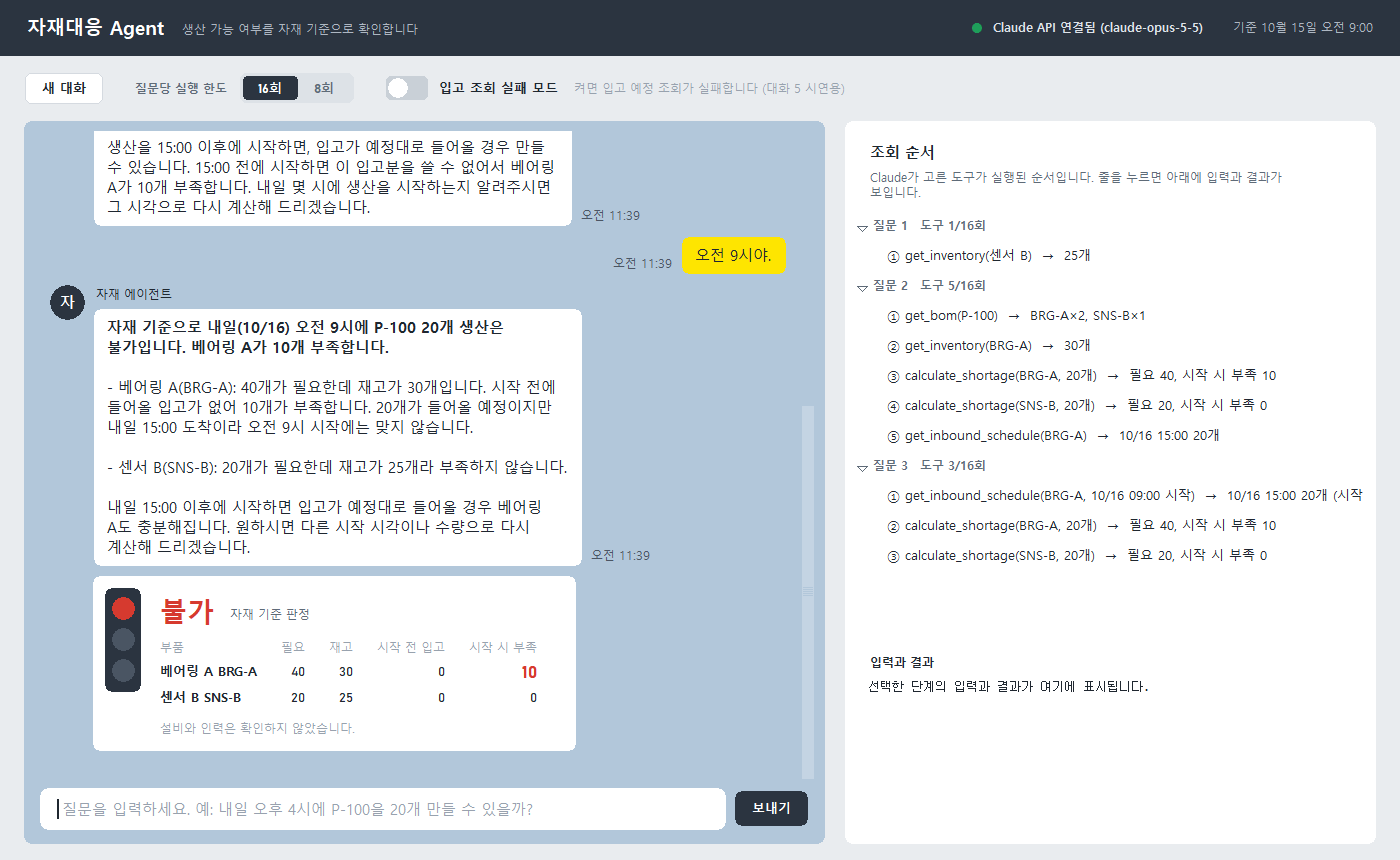
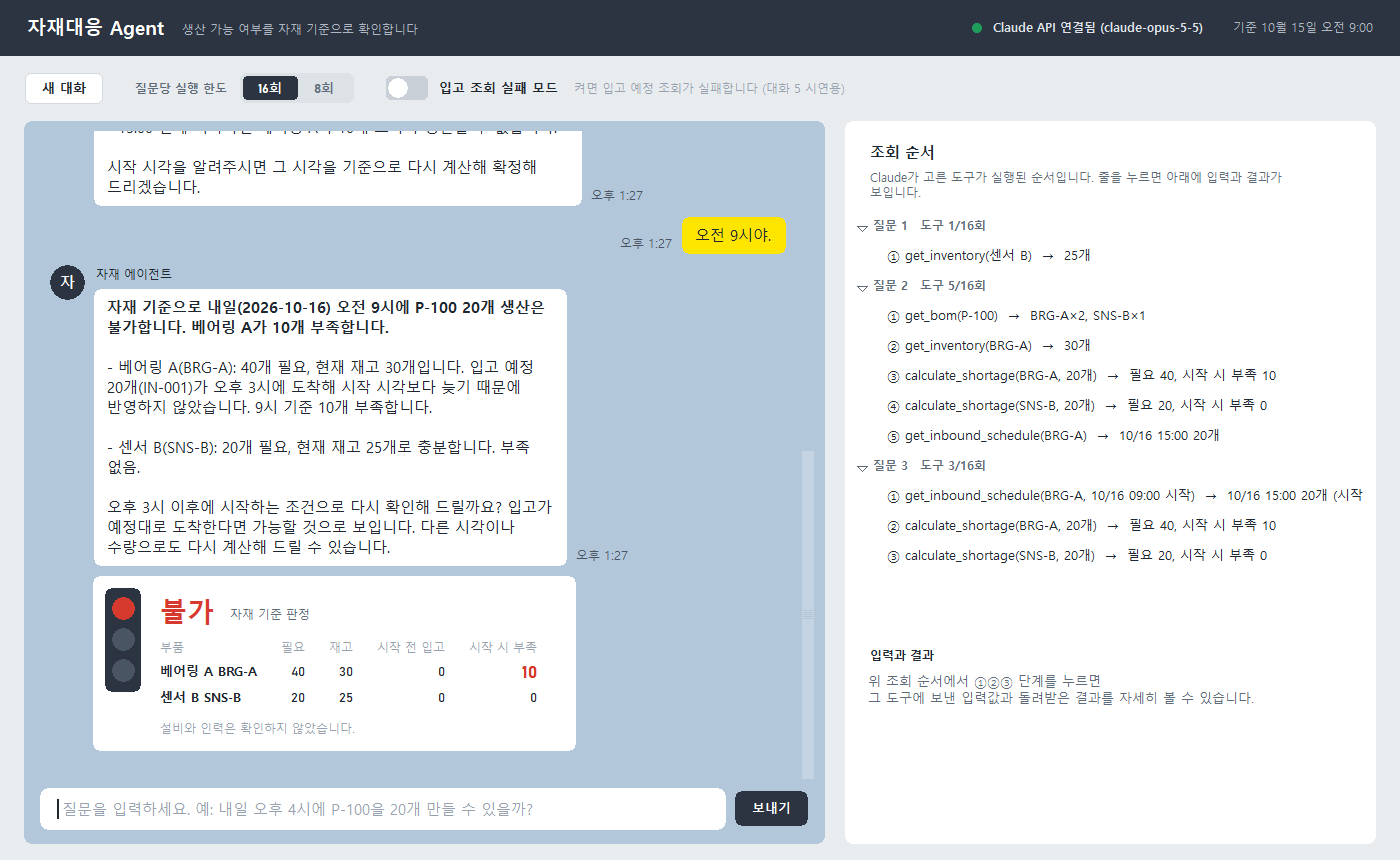
feat: clearer detail hint text

Changed region(s): [[0.0307, 0.3023, 0.4607, 0.6651], [0.0614, 0.1512, 0.5836, 0.3326], [0.6143, 0.7558, 0.8907, 0.8163]]

diff --git a/app.py b/app.py
@@ -43,6 +43,8 @@ CHAT_MUTED = "#4B5563"
 BUBBLE_WRAP = 460
 LIMIT_CHOICES = ("16", "8")
 CIRCLED = "①②③④⑤⑥⑦⑧⑨⑩⑪⑫⑬⑭⑮⑯⑰⑱⑲⑳"
+DETAIL_HINT = ("위 조회 순서에서 ①②③ 단계를 누르면\n"
+               "그 도구에 보낸 입력값과 돌려받은 결과를 자세히 볼 수 있습니다.")
 
 
 def color_distance(a: str, b: str) -> float:
@@ -72,7 +74,7 @@ class Fonts:
         self.figure = (sign, 13, "bold")
         self.figure_small = (sign, 10)
         self.sign = (sign, 10, "bold")
-        self.mono = (mono, 9)
+        self.mono = (mono, 10)
 
 
 def _round_rect(canvas, x1, y1, x2, y2, r, **kw):
@@ -516,7 +518,7 @@ class MaterialApp(tk.Frame):
                                            style="Slim.Vertical.TScrollbar")
         self.detail.pack(side="left", fill="both", expand=True)
         self.detail.configure(yscrollcommand=_autohide(self.detail_scroll, self.detail))
-        self._set_text(self.detail, "선택한 단계의 입력과 결과가 여기에 표시됩니다.")
+        self._show_hint()
 
     def _configure_chat_tags(self):
         """말풍선 줄 정렬과 가운데 알림 스타일. 말풍선 자체는 위젯으로 그린다."""
@@ -570,7 +572,7 @@ class MaterialApp(tk.Frame):
         self._groups.clear()
         self._details.clear()
         self.tool_tree.delete(*self.tool_tree.get_children())
-        self._set_text(self.detail, "선택한 단계의 입력과 결과가 여기에 표시됩니다.")
+        self._show_hint()
         self.chat.configure(state="normal")
         self.chat.delete("1.0", "end")
         self.chat.configure(state="disabled")
@@ -658,12 +660,18 @@ class MaterialApp(tk.Frame):
         selected = self.tool_tree.selection()
         call = self._details.get(selected[0]) if selected else None
         if call is None:
-            self._set_text(self.detail, "선택한 단계의 입력과 결과가 여기에 표시됩니다.")
+            self._show_hint()
             return
         body = (f"{call.name} ({'성공' if call.ok else '오류'})\n\n입력\n"
                 f"{json.dumps(call.args, ensure_ascii=False, indent=2)}\n\n결과\n"
                 f"{json.dumps(call.payload, ensure_ascii=False, indent=2)}")
         self._set_text(self.detail, body)
+
+    def _show_hint(self) -> None:
+        """원문 칸 안내문: 코드용 고정폭 글꼴 대신 본문 글꼴로 (①②③이 작게 깨지지 않게)."""
+        self._set_text(self.detail, DETAIL_HINT)
+        self.detail.tag_configure("hint", font=self.fonts.body, foreground=MUTED, spacing2=4)
+        self.detail.tag_add("hint", "1.0", "end")
 
     def _set_busy(self, busy: bool) -> None:
         self.busy = busy

diff --git a/tests/test_app.py b/tests/test_app.py
@@ -366,3 +366,13 @@ def test_scrollbars_hide_when_content_fits(root):
     root.update()
     assert not app.detail_scroll.winfo_ismapped()
     root.withdraw()
+
+
+def test_detail_hint_explains_clicking_a_step(root):
+    import app as app_module
+    app = make_app(root, FakeAgent())
+    hint = app.detail.get("1.0", "end").strip()
+    assert hint == app_module.DETAIL_HINT and "단계" in hint and "누르면" in hint
+    assert "hint" in app.detail.tag_names("1.0")  # 안내문은 본문 글꼴(①②③이 깨지지 않게)
+    app.new_conversation()
+    assert app.detail.get("1.0", "end").strip() == app_module.DETAIL_HINT

diff --git a/process.md b/process.md
@@ -20,3 +20,4 @@
 | 2026-10-15 | docs: refresh README screenshots | README 화면 캡처 2장 다시 촬영(줄 간격 적용 후 실제 API 실행 화면: 오전 9시 불가, 입고 조회 실패 확인 불가) |
 | 2026-10-15 | feat: resizable trace/detail split and faint scrollbars | 오른쪽 조회 순서와 입력·결과 원문 사이 경계선을 끌어 높이 조절, 원문 칸에 세로 스크롤바 추가(내용이 많으면 잘리던 문제). 대화창·조회 순서·원문의 스크롤바를 배경과 거의 같은 옅은 색·좁은 폭으로 바꾸고 마우스를 올리면 진해지게 함(대화창은 하늘색 배경용 색). 조회 순서와 원문 스크롤바를 오른쪽 끝 같은 위치로 정렬. README 스크린샷 갱신. 테스트 98개 통과 |
 | 2026-10-15 | feat: rounded commercial-grade UI polish | 직각 상자·회색 테두리·이중 상자를 없애고 둥근 부품으로 통일: 대화·조회 패널(둥근 바탕, 테두리 없음), 둥근 버튼(새 대화·보내기), 알약형 실행 한도 선택(16회/8회), 입고 조회 실패 모드 스위치, 둥근 입력창, 둥근 안돈 카드와 신호등 기둥, 둥근 프로필. 조회 목록 자체 테두리 제거, 높이 조절 경계는 회색 막대 대신 여백. 스크롤바는 내용이 넘칠 때만 표시. 화면 캡처는 앱 창만 그려 저장하도록 변경(화면 보안 워터마크가 찍히지 않게). README 스크린샷 갱신. 테스트 104개 통과 |
+| 2026-10-15 | feat: clearer detail hint text | 입력·결과 원문 칸 안내문을 "위 조회 순서에서 ①②③ 단계를 누르면 그 도구에 보낸 입력값과 돌려받은 결과를 자세히 볼 수 있습니다."로 변경, 안내문은 본문 글꼴(10pt, 옅은 회색)로 표시해 ①②③이 깨지지 않게 함. 입력·결과 원문 글자 9pt→10pt. README 스크린샷 갱신. 테스트 105개 통과 |
